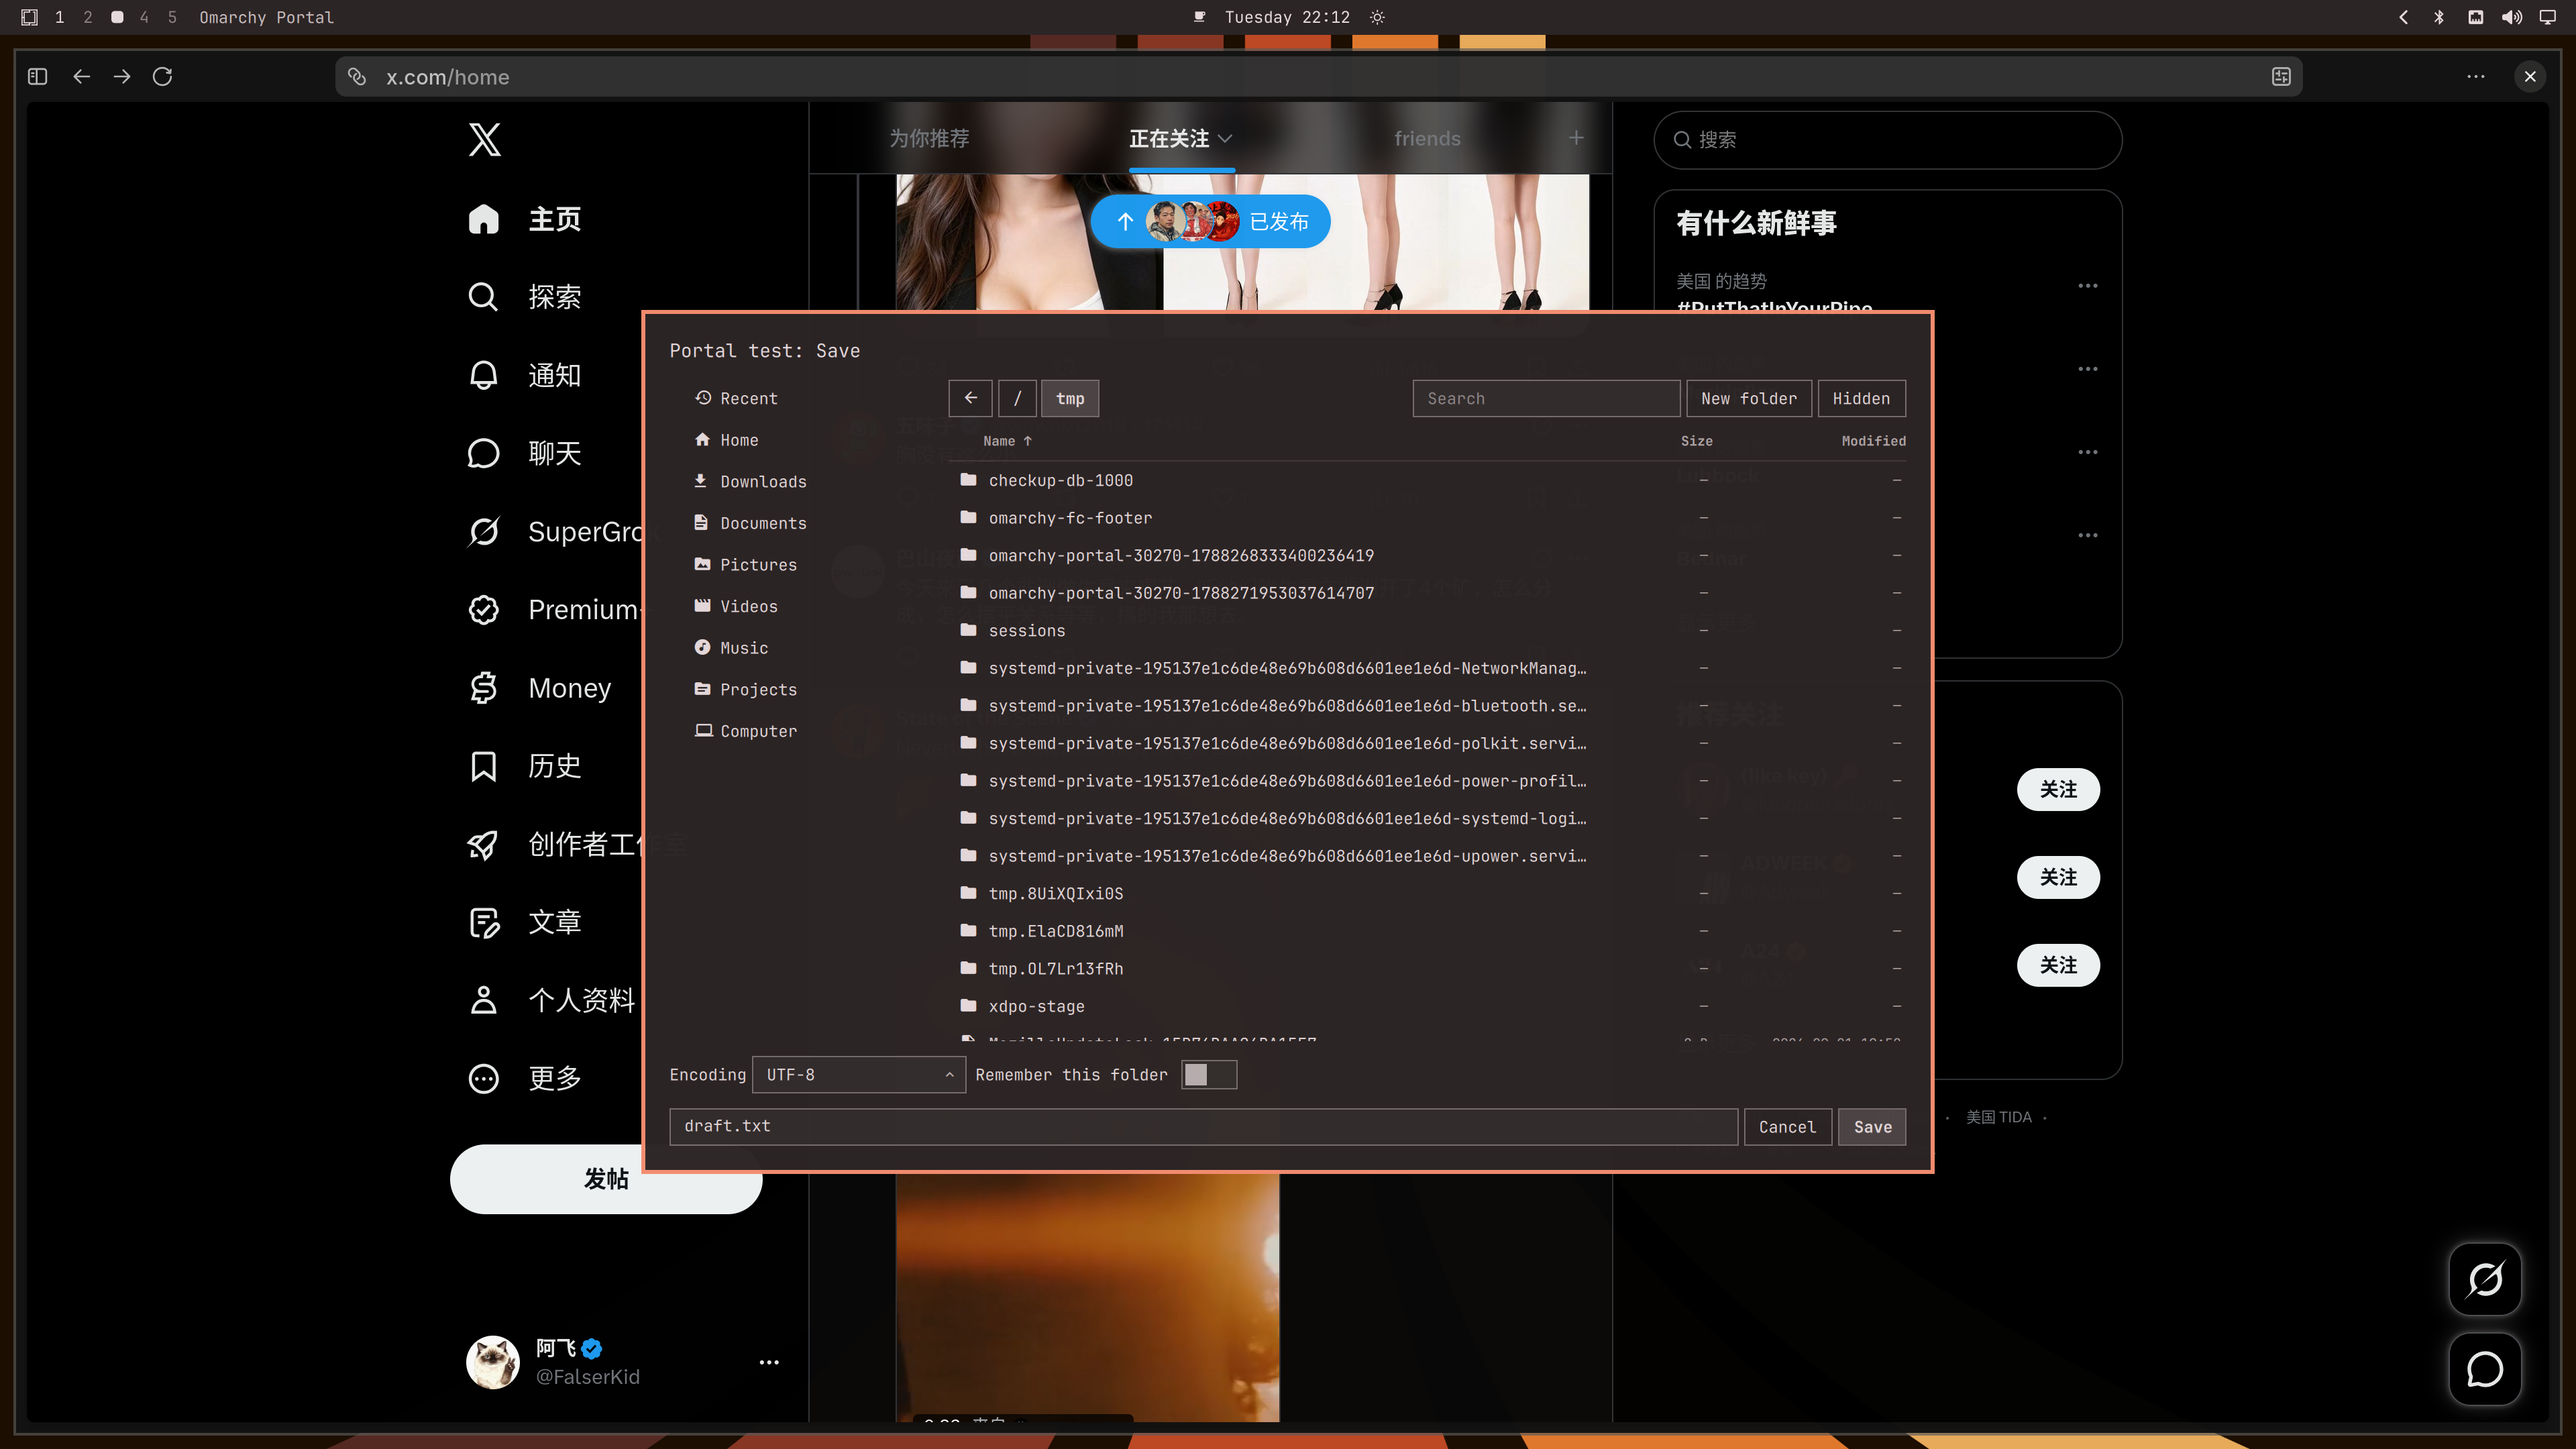
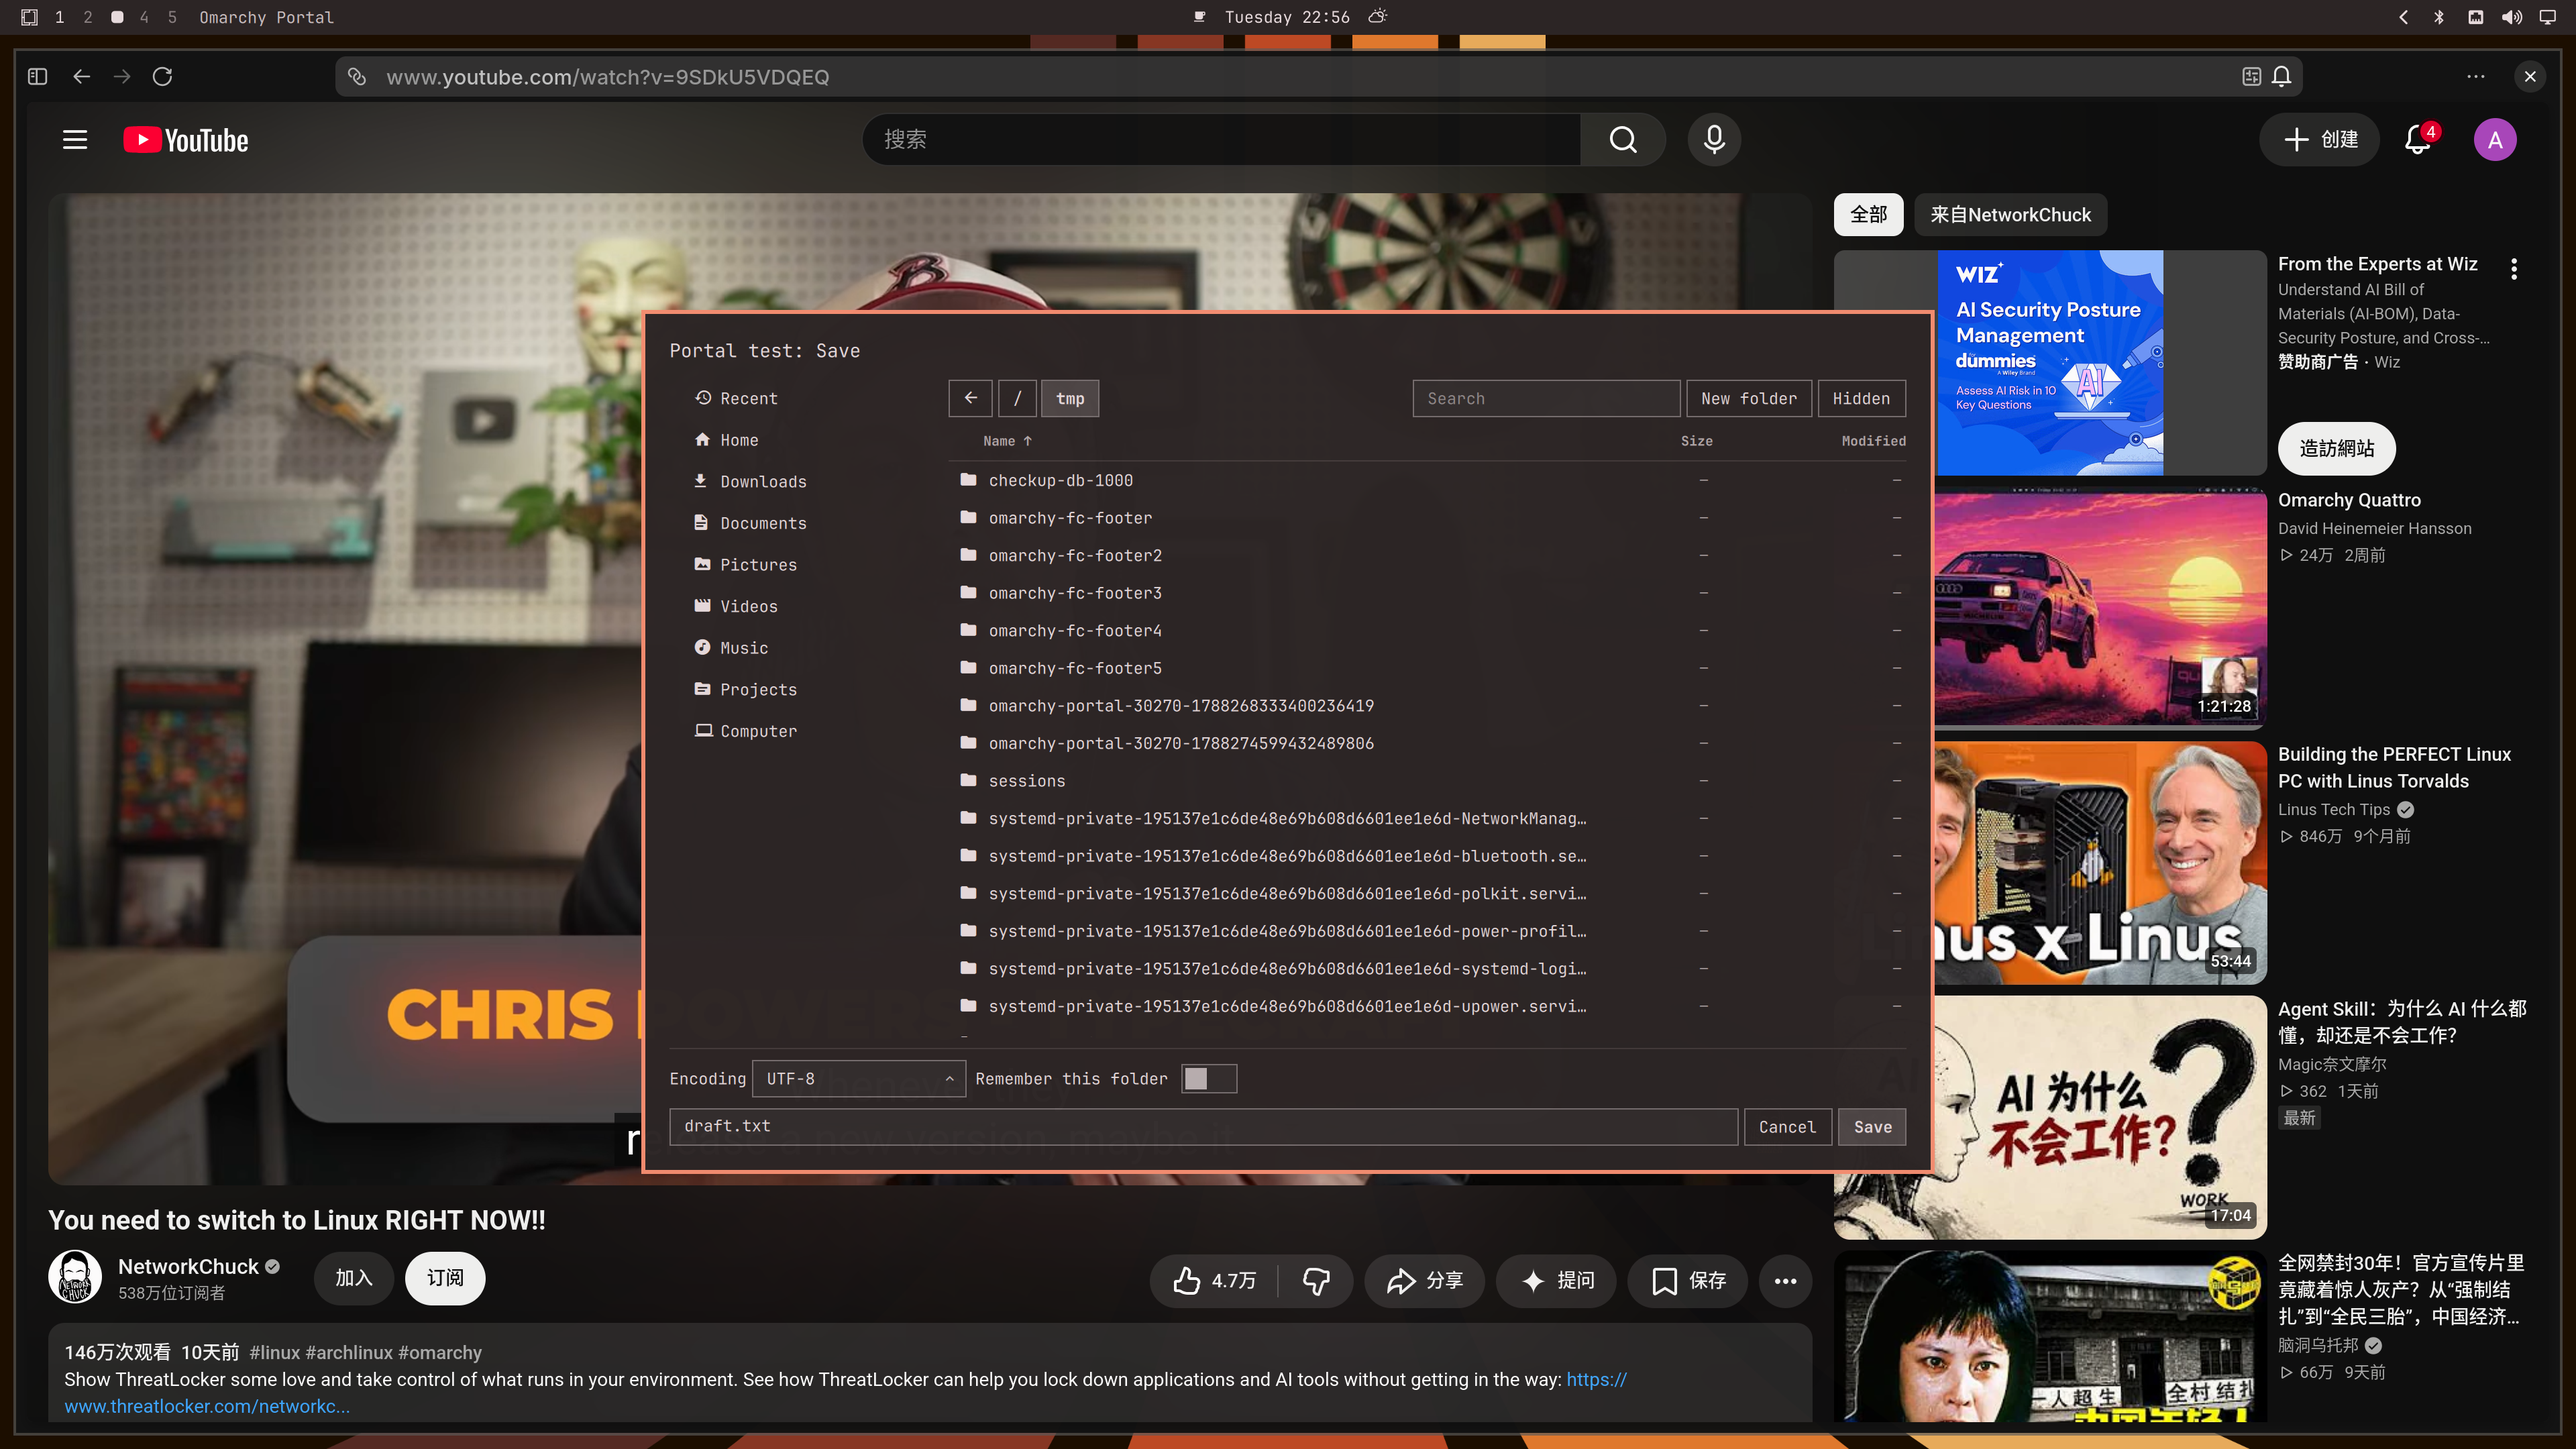
Keep Open FileChooser extras on the same row as Cancel/Open.
Save still uses a separate extras row above the filename field. Refresh Open/Save screenshots.

diff --git a/shell/omarchy.portal/FileChooserDialog.qml b/shell/omarchy.portal/FileChooserDialog.qml
@@ -45,6 +45,7 @@ PortalDialog {
   cardHeight: Style.space(640)
   focus: true
   readonly property int footerBarHeight: Style.spacing.controlHeight
+  readonly property bool hasFooterExtras: root.choices.length > 0 || root.filters.length > 0
   readonly property int rowHeight: Style.spacing.controlHeight
   readonly property int iconColWidth: Style.space(22)
   readonly property int dateColWidth: Style.space(140)
@@ -979,39 +980,197 @@ PortalDialog {
       }
     }
 
-    // Save keeps choices/filters on their own row above the filename field.
-    RowLayout {
-      Layout.fillWidth: true
-      Layout.preferredHeight: root.footerBarHeight
-      spacing: Style.spacing.md
-      visible: root.saveMode && (root.choices.length > 0 || root.filters.length > 0)
+    PanelSeparator { Layout.fillWidth: true }
 
-      FooterChoicesFilters { }
-      Item { Layout.fillWidth: true }
-    }
-
-    // Open: choices/filters + Cancel/Open on one row.
-    // Save: filename field + Cancel/Save (choices stay on the row above).
+    // Open: extras + buttons on a single row.
     RowLayout {
+      visible: !root.saveMode
       Layout.fillWidth: true
       Layout.preferredHeight: root.footerBarHeight
       spacing: Style.spacing.sm
 
-      FooterChoicesFilters {
-        visible: !root.saveMode && (root.choices.length > 0 || root.filters.length > 0)
+      Repeater {
+        model: root.choices
+        delegate: Row {
+          required property var modelData
+          required property int index
+          spacing: Style.spacing.sm
+          Layout.alignment: Qt.AlignVCenter
+          Layout.preferredHeight: root.footerBarHeight
+
+          Text {
+            visible: root.choiceHasOptions(modelData)
+            anchors.verticalCenter: parent.verticalCenter
+            text: String(modelData.label || modelData.id)
+            color: root.contentText
+            font.family: Style.font.family
+            font.pixelSize: Style.font.body
+          }
+          UpDropdown {
+            visible: root.choiceHasOptions(modelData)
+            width: Style.space(160)
+            height: root.footerBarHeight
+            showLabel: false
+            rowHeight: root.footerBarHeight
+            value: String(root.choiceValues[String(modelData.id || index)] || modelData.selected || "")
+            options: root.choiceOptions(modelData)
+            onChanged: function(v) {
+              var next = Object.assign({}, root.choiceValues)
+              next[String(modelData.id || index)] = v
+              root.choiceValues = next
+            }
+          }
+          Text {
+            visible: !root.choiceHasOptions(modelData)
+            anchors.verticalCenter: parent.verticalCenter
+            text: String(modelData.label || modelData.id)
+            color: root.contentText
+            font.family: Style.font.family
+            font.pixelSize: Style.font.body
+          }
+          ToggleSwitch {
+            visible: !root.choiceHasOptions(modelData)
+            anchors.verticalCenter: parent.verticalCenter
+            checked: String(root.choiceValues[String(modelData.id || index)] || modelData.selected) === "true"
+            onToggled: {
+              var next = Object.assign({}, root.choiceValues)
+              next[String(modelData.id || index)] = checked ? "false" : "true"
+              root.choiceValues = next
+            }
+          }
+        }
       }
+      UpDropdown {
+        visible: root.filters.length > 0
+        Layout.preferredWidth: Style.space(200)
+        Layout.preferredHeight: root.footerBarHeight
+        Layout.alignment: Qt.AlignVCenter
+        showLabel: false
+        rowHeight: root.footerBarHeight
+        value: String(root.filterIndex)
+        options: {
+          var out = []
+          for (var i = 0; i < root.filters.length; i++)
+            out.push({ value: String(i), label: String(root.filters[i].label || "Filter") })
+          return out
+        }
+        onChanged: function(v) { root.filterIndex = Number(v) }
+      }
+      Item { Layout.fillWidth: true }
+      Button {
+        text: root.cancelText
+        bordered: true
+        selected: root.selectedIndex === 0
+        Layout.preferredHeight: root.footerBarHeight
+        Layout.alignment: Qt.AlignVCenter
+        onClicked: {
+          root.selectedIndex = 0
+          root.rejected()
+        }
+      }
+      Button {
+        text: root.acceptText
+        bordered: true
+        selected: root.selectedIndex === 1
+        enabled: root.acceptable
+        Layout.preferredHeight: root.footerBarHeight
+        Layout.alignment: Qt.AlignVCenter
+        onClicked: {
+          root.selectedIndex = 1
+          if (root.acceptable) root.accepted()
+        }
+      }
+    }
+
+    // Save: extras row, then filename + Cancel/Save.
+    RowLayout {
+      visible: root.saveMode && root.hasFooterExtras
+      Layout.fillWidth: true
+      Layout.preferredHeight: root.footerBarHeight
+      spacing: Style.spacing.md
+
+      Repeater {
+        model: root.choices
+        delegate: Row {
+          required property var modelData
+          required property int index
+          spacing: Style.spacing.sm
+          Layout.alignment: Qt.AlignVCenter
+          Layout.preferredHeight: root.footerBarHeight
+
+          Text {
+            visible: root.choiceHasOptions(modelData)
+            anchors.verticalCenter: parent.verticalCenter
+            text: String(modelData.label || modelData.id)
+            color: root.contentText
+            font.family: Style.font.family
+            font.pixelSize: Style.font.body
+          }
+          UpDropdown {
+            visible: root.choiceHasOptions(modelData)
+            width: Style.space(160)
+            height: root.footerBarHeight
+            showLabel: false
+            rowHeight: root.footerBarHeight
+            value: String(root.choiceValues[String(modelData.id || index)] || modelData.selected || "")
+            options: root.choiceOptions(modelData)
+            onChanged: function(v) {
+              var next = Object.assign({}, root.choiceValues)
+              next[String(modelData.id || index)] = v
+              root.choiceValues = next
+            }
+          }
+          Text {
+            visible: !root.choiceHasOptions(modelData)
+            anchors.verticalCenter: parent.verticalCenter
+            text: String(modelData.label || modelData.id)
+            color: root.contentText
+            font.family: Style.font.family
+            font.pixelSize: Style.font.body
+          }
+          ToggleSwitch {
+            visible: !root.choiceHasOptions(modelData)
+            anchors.verticalCenter: parent.verticalCenter
+            checked: String(root.choiceValues[String(modelData.id || index)] || modelData.selected) === "true"
+            onToggled: {
+              var next = Object.assign({}, root.choiceValues)
+              next[String(modelData.id || index)] = checked ? "false" : "true"
+              root.choiceValues = next
+            }
+          }
+        }
+      }
+      UpDropdown {
+        visible: root.filters.length > 0
+        Layout.preferredWidth: Style.space(200)
+        Layout.preferredHeight: root.footerBarHeight
+        Layout.alignment: Qt.AlignVCenter
+        showLabel: false
+        rowHeight: root.footerBarHeight
+        value: String(root.filterIndex)
+        options: {
+          var out = []
+          for (var i = 0; i < root.filters.length; i++)
+            out.push({ value: String(i), label: String(root.filters[i].label || "Filter") })
+          return out
+        }
+        onChanged: function(v) { root.filterIndex = Number(v) }
+      }
+      Item { Layout.fillWidth: true }
+    }
+    RowLayout {
+      visible: root.saveMode
+      Layout.fillWidth: true
+      Layout.preferredHeight: root.footerBarHeight
+      spacing: Style.spacing.sm
+
       TextField {
         Layout.fillWidth: true
         Layout.preferredHeight: root.footerBarHeight
-        visible: root.saveMode
         placeholderText: "File name"
         text: root.filename
         onTextChanged: root.filename = text
         onAccepted: root.tryAccept()
-      }
-      Item {
-        Layout.fillWidth: true
-        visible: !root.saveMode
       }
       Button {
         text: root.cancelText
@@ -1034,76 +1193,6 @@ PortalDialog {
           if (root.acceptable) root.accepted()
         }
       }
-    }
-  }
-
-  component FooterChoicesFilters: Row {
-    spacing: Style.spacing.md
-    height: root.footerBarHeight
-
-    Repeater {
-      model: root.choices
-      delegate: Row {
-        required property var modelData
-        spacing: Style.spacing.sm
-        height: root.footerBarHeight
-        Text {
-          visible: root.choiceHasOptions(modelData)
-          anchors.verticalCenter: parent.verticalCenter
-          text: String(modelData.label || modelData.id)
-          color: root.contentText
-          font.family: Style.font.family
-          font.pixelSize: Style.font.body
-        }
-        UpDropdown {
-          visible: root.choiceHasOptions(modelData)
-          width: Style.space(160)
-          height: root.footerBarHeight
-          showLabel: false
-          rowHeight: root.footerBarHeight
-          value: String(root.choiceValues[String(modelData.id)] || modelData.selected || "")
-          options: root.choiceOptions(modelData)
-          onChanged: function(v) {
-            var next = Object.assign({}, root.choiceValues)
-            next[String(modelData.id)] = v
-            root.choiceValues = next
-          }
-        }
-        Text {
-          visible: !root.choiceHasOptions(modelData)
-          anchors.verticalCenter: parent.verticalCenter
-          text: String(modelData.label || modelData.id)
-          color: root.contentText
-          font.family: Style.font.family
-          font.pixelSize: Style.font.body
-        }
-        ToggleSwitch {
-          visible: !root.choiceHasOptions(modelData)
-          anchors.verticalCenter: parent.verticalCenter
-          checked: String(root.choiceValues[String(modelData.id)] || modelData.selected) === "true"
-          onToggled: {
-            var next = Object.assign({}, root.choiceValues)
-            next[String(modelData.id)] = checked ? "false" : "true"
-            root.choiceValues = next
-          }
-        }
-      }
-    }
-
-    UpDropdown {
-      visible: root.filters.length > 0
-      width: Style.space(200)
-      height: root.footerBarHeight
-      showLabel: false
-      rowHeight: root.footerBarHeight
-      value: String(root.filterIndex)
-      options: {
-        var out = []
-        for (var i = 0; i < root.filters.length; i++)
-          out.push({ value: String(i), label: String(root.filters[i].label || "Filter") })
-        return out
-      }
-      onChanged: function(v) { root.filterIndex = Number(v) }
     }
   }
 
